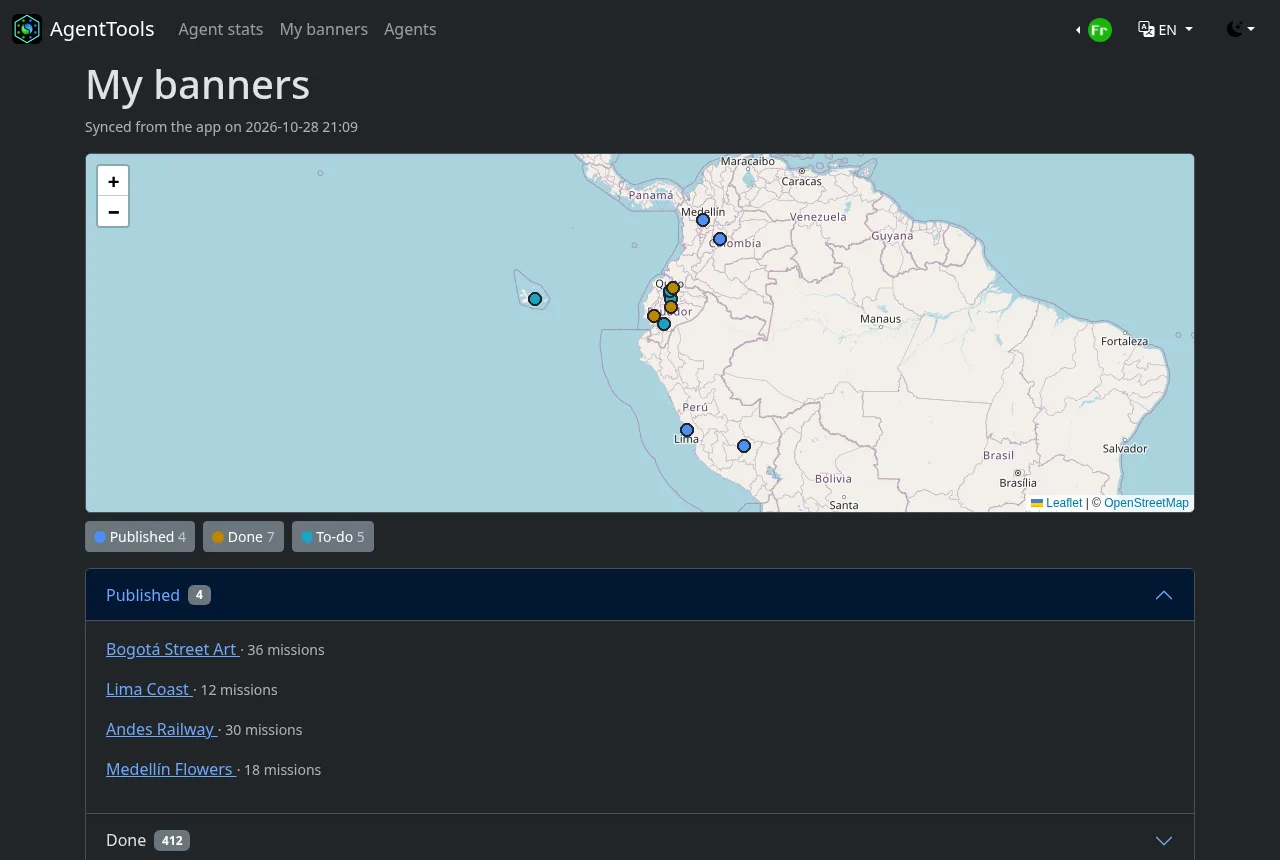
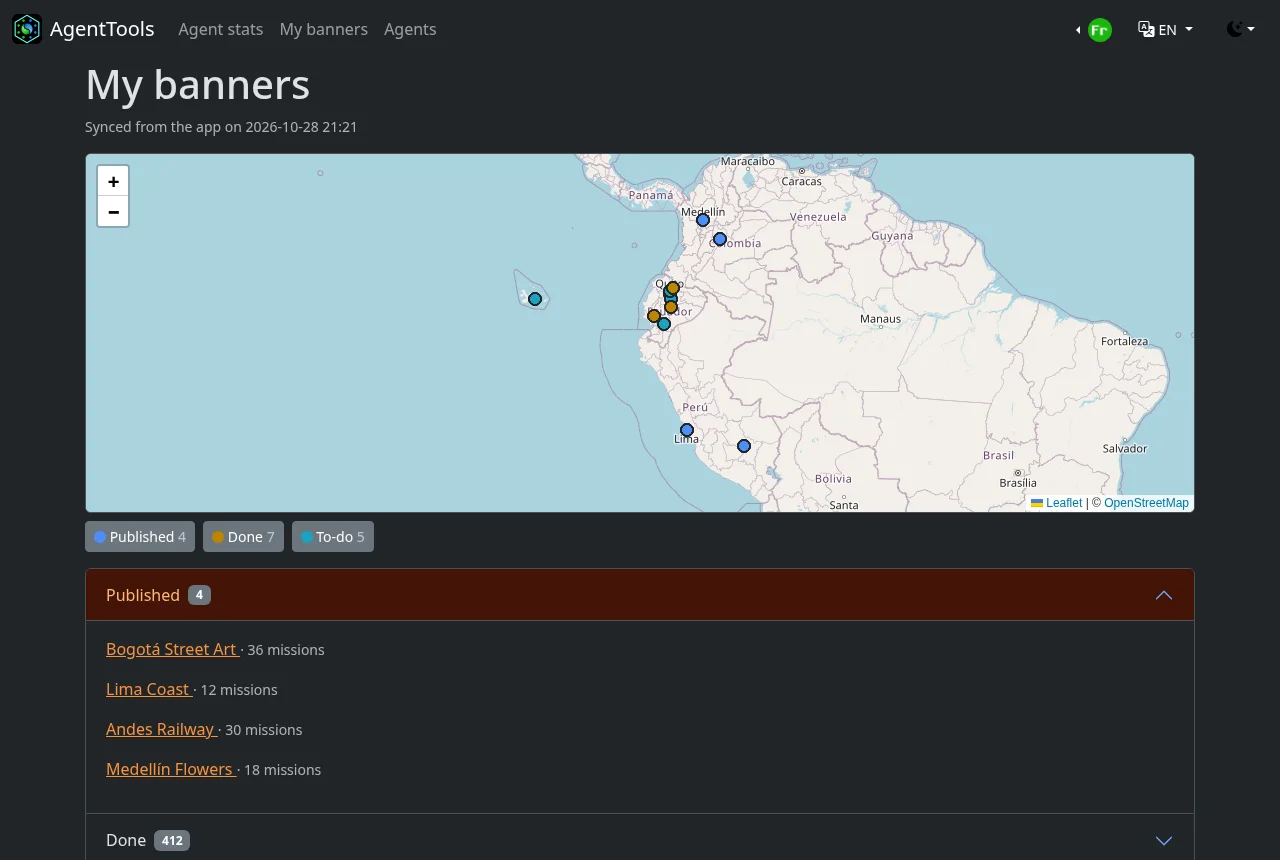
Retake the website's screenshots with a script and name Google's Spanish button in docs
docs/scripts/web-screenshots.mjs (npm run screenshots:web) takes them as prod shows them:
headless Chromium, 1280x860, dark theme, English, signed in as the demo agent DemoFrog, without
the dev-only parts and with only the demo agents. They show the orange accent and the new
sign-in page. The developer guide describes the script; the Spanish guide names Google's button
"Acceder con Google", as Google labels it.

Changed region(s): [[0.0625, 0.6349, 0.9375, 0.907]]

diff --git a/docs/es/developers/index.md b/docs/es/developers/index.md
@@ -80,6 +80,16 @@ cobertura de tests web (`/coverage/`). Las capturas de `docs/public/screenshots/
 agentes de demostración (`symfony console app:demo-agents`; la app con sesión iniciada como
 DemoFrog con un token falso), nunca usuarios reales.
 
+Las capturas del sitio web las toma un script, con la app web en dev y los agentes de
+demostración añadidos: Chromium headless en el tema oscuro y en inglés, con sesión iniciada como
+DemoFrog, sin las partes que solo existen en dev. Necesita un Chromium o Chrome (`CHROME`, por
+defecto `chromium`; no Brave, que oculta el idioma del navegador a los sitios):
+
+```shell
+cd docs
+CHROME=/path/to/chrome npm run screenshots:web   # opcional: -- <URL de la app web>
+```
+
 ## App de desarrollo {#dev-app}
 
 El workflow de GitHub Pages también compila el tipo de compilación `dev` del último master y lo

diff --git a/docs/de/developers/index.md b/docs/de/developers/index.md
@@ -79,6 +79,16 @@ Testabdeckung des Webs (`/coverage/`) hinzu. Die Screenshots in `docs/public/scr
 die Demo-Agenten (`symfony console app:demo-agents`; die App mit einem Fake-Token als DemoFrog
 angemeldet), nie echte Benutzer.
 
+Die Screenshots der Website nimmt ein Skript auf, während die Web-App in dev läuft und die
+Demo-Agenten angelegt sind: headless Chromium im dunklen Design und auf Englisch, als DemoFrog
+angemeldet, ohne die Teile, die es nur in dev gibt. Es braucht ein Chromium oder Chrome
+(`CHROME`, Standard `chromium`; nicht Brave, das die Sprache des Browsers vor Websites verbirgt):
+
+```shell
+cd docs
+CHROME=/path/to/chrome npm run screenshots:web   # optional: -- <URL der Web-App>
+```
+
 ## Dev-App {#dev-app}
 
 Der GitHub-Pages-Workflow baut außerdem den Build-Typ `dev` des neuesten master und stellt ihn auf

diff --git a/docs/developers/index.md b/docs/developers/index.md
@@ -79,6 +79,16 @@ web test coverage (`/coverage/`). The screenshots in `docs/public/screenshots/` 
 agents (`symfony console app:demo-agents`; the app signed in as DemoFrog with a fake token), never
 real users.
 
+The website's screenshots are taken by a script, with the web app running in dev and the demo
+agents added: headless Chromium in the dark theme and in English, signed in as DemoFrog, without
+the dev-only parts. It needs a Chromium or Chrome (`CHROME`, default `chromium`; not Brave, which
+hides the browser's language from sites):
+
+```shell
+cd docs
+CHROME=/path/to/chrome npm run screenshots:web   # optional: -- <URL of the web app>
+```
+
 ## Dev app
 
 The GitHub Pages workflow also builds the `dev` build type of the latest master and puts it on the

diff --git a/docs/es/guide/web.md b/docs/es/guide/web.md
@@ -8,7 +8,7 @@ de la app; el sitio web también puede importar estadísticas que guardaste en o
 
 ![La página de inicio de sesión](/screenshots/web/login.webp){.shot-web}
 
-Haz clic en **Iniciar sesión con Google** y elige la misma cuenta de Google que en la app. La
+Haz clic en **Acceder con Google** y elige la misma cuenta de Google que en la app. La
 primera vez, el sitio web te lleva a tu perfil para que elijas lo que ven otros usuarios.
 
 La barra de navegación tiene tus estadísticas, **Mis banners** y **Agentes**. A la derecha: tu foto
